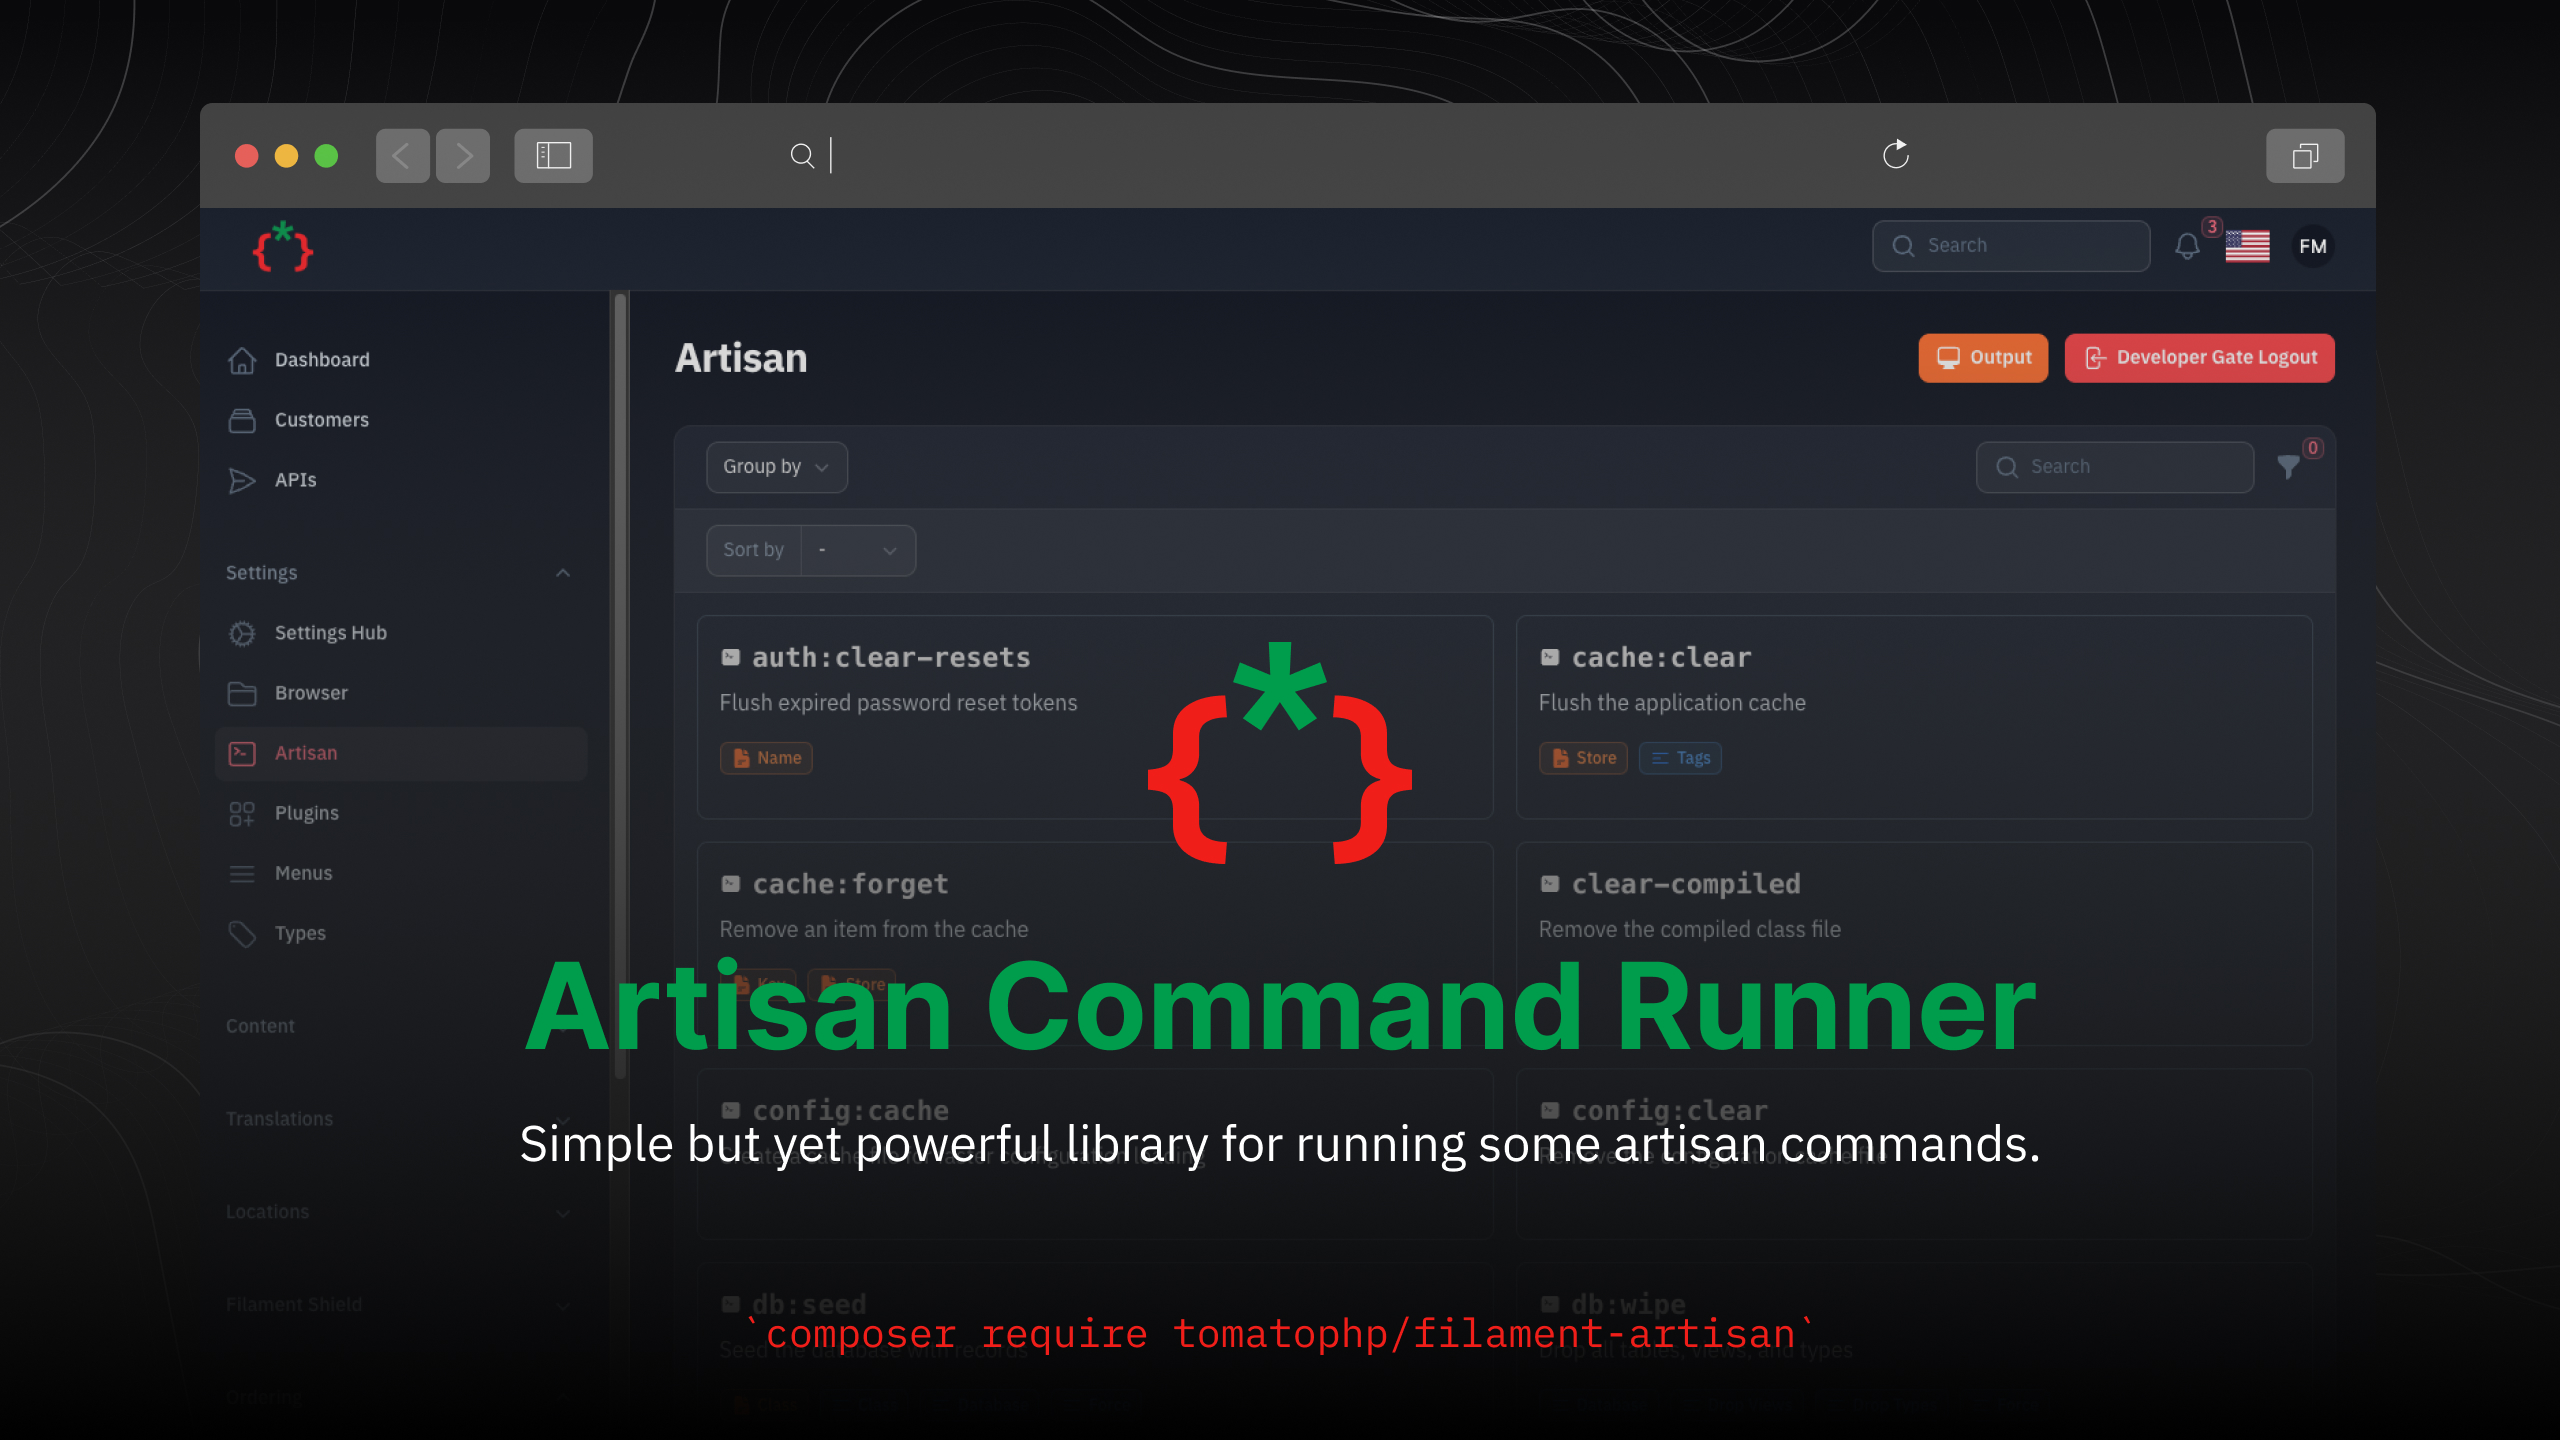
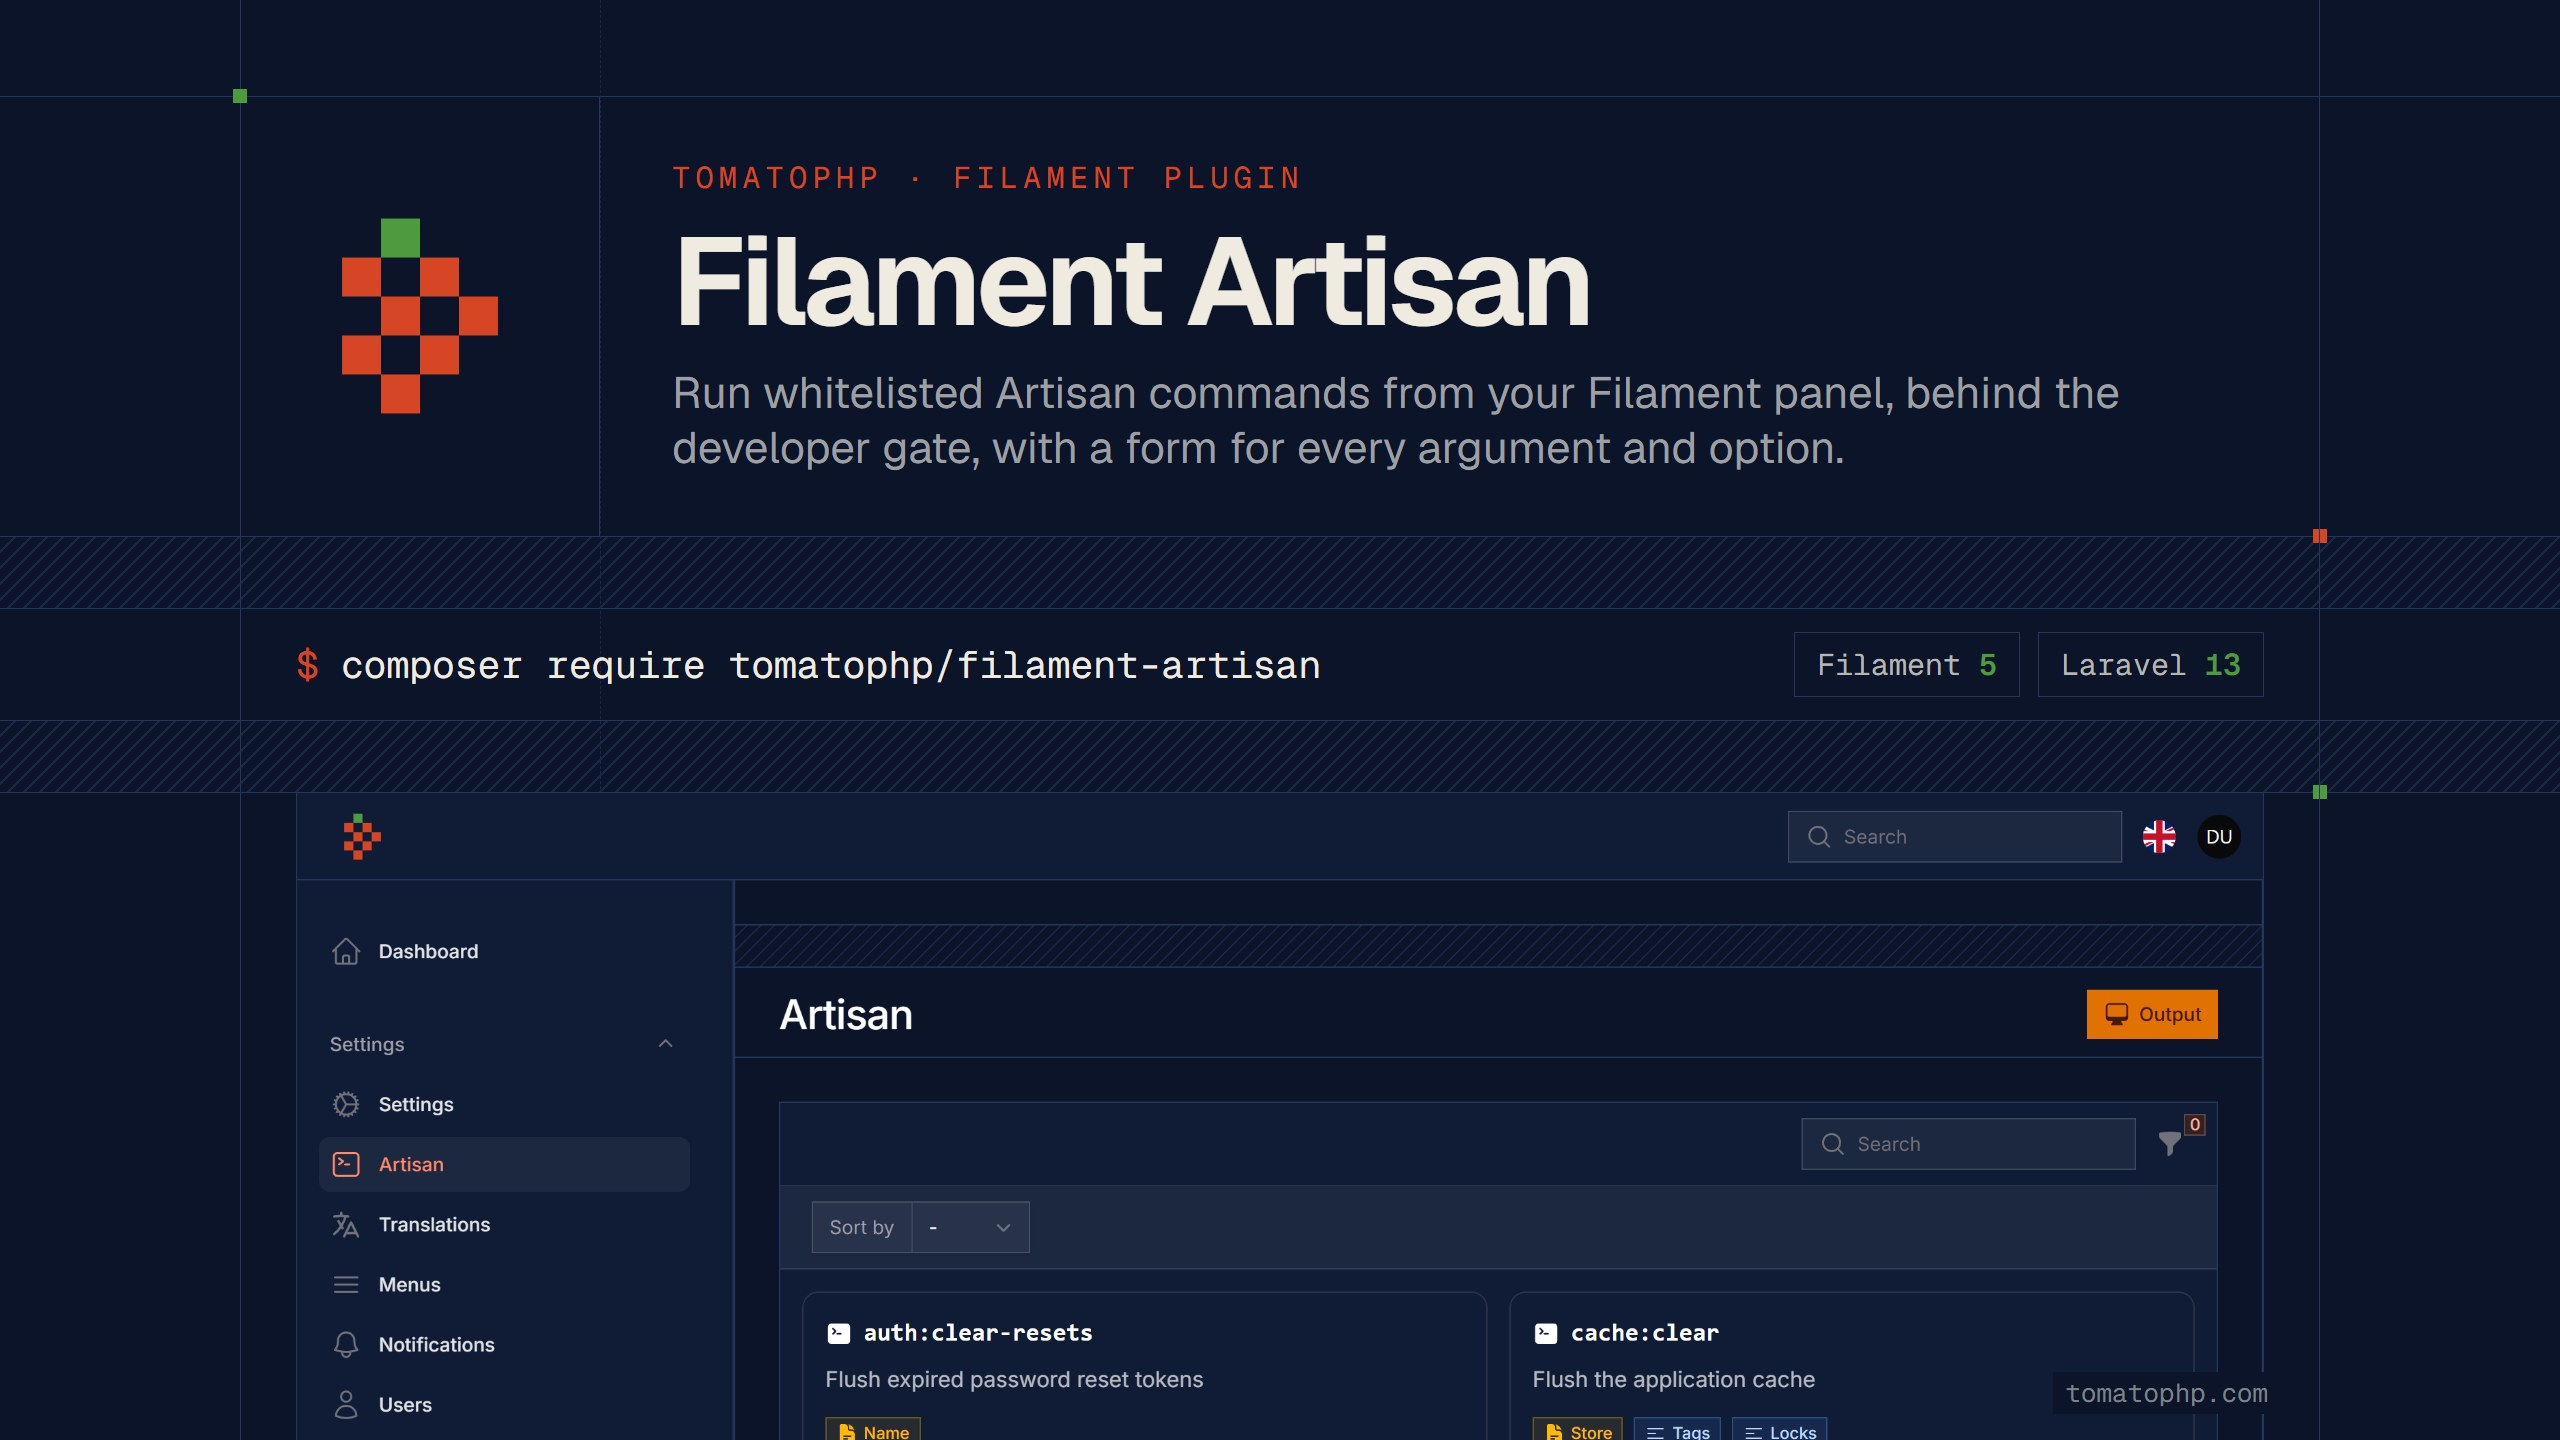
docs: new TomatoPHP cover and demo screenshots

diff --git a/README.md b/README.md
@@ -1,4 +1,4 @@
-![Screenshot](https://raw.githubusercontent.com//tomatophp/filament-artisan/master/arts/3x1io-tomato-artisan.jpg)
+![Screenshot](https://raw.githubusercontent.com/tomatophp/filament-artisan/master/arts/3x1io-tomato-artisan.jpg)
 
 # Filament Artisan Command Runner
 
@@ -9,6 +9,9 @@
 Simple but yet powerful library for running some [artisan](https://laravel.com/docs/artisan) commands for FilamentPHP
 
 ## Screenshots
+
+![Demo dark](https://raw.githubusercontent.com/tomatophp/filament-artisan/master/arts/demo-dark.png)
+![Demo light](https://raw.githubusercontent.com/tomatophp/filament-artisan/master/arts/demo-light.png)
 
 ![Commands List](https://raw.githubusercontent.com/tomatophp/filament-artisan/master/arts/commands.png)
 ![Commands Form](https://raw.githubusercontent.com/tomatophp/filament-artisan/master/arts/commands-form.png)
